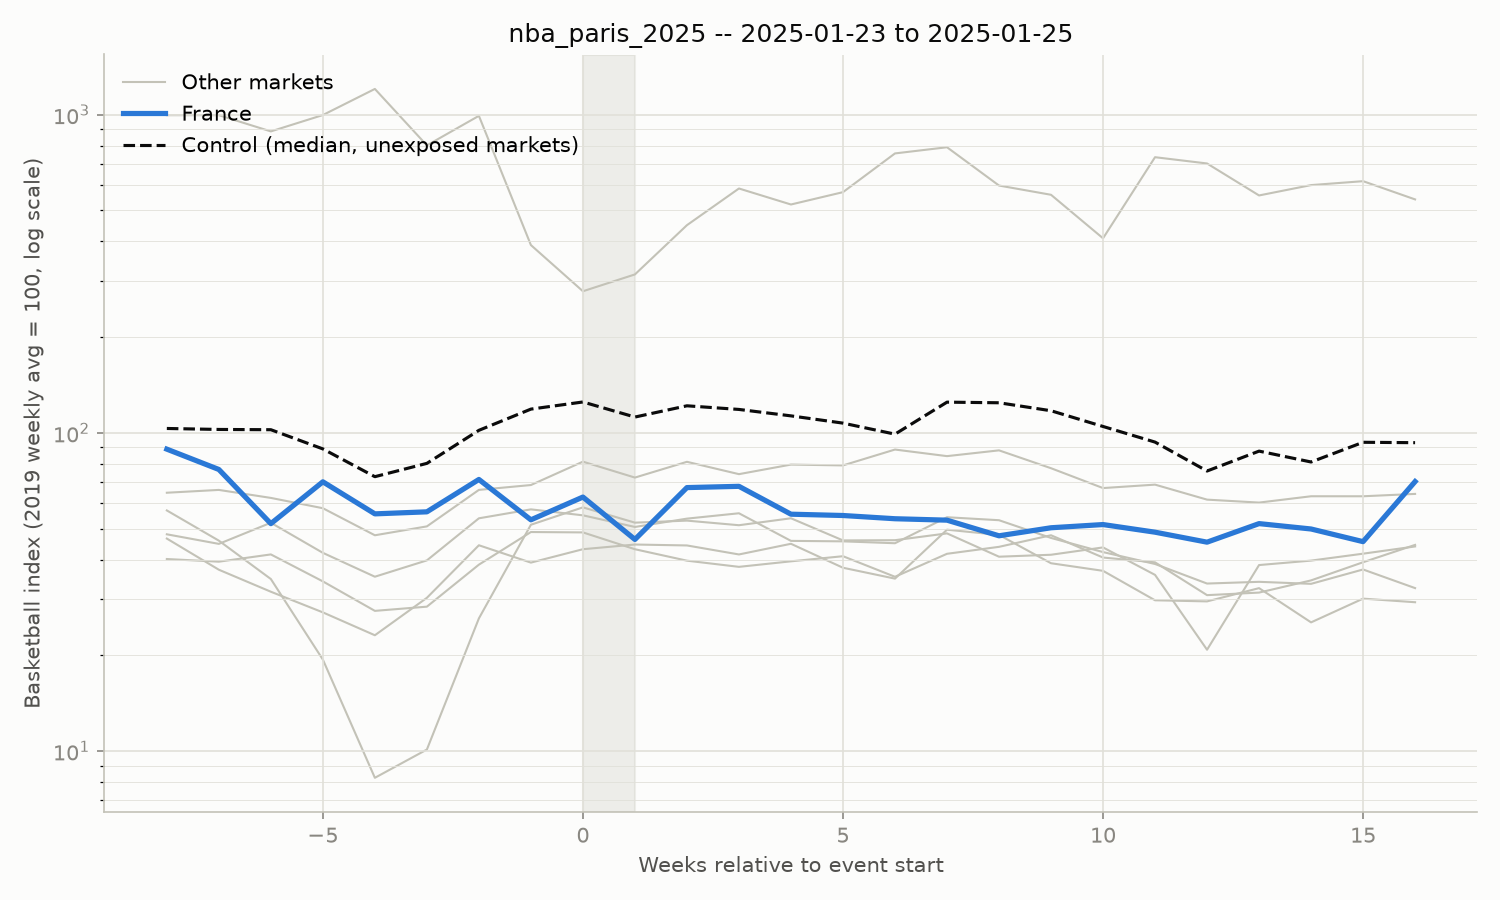
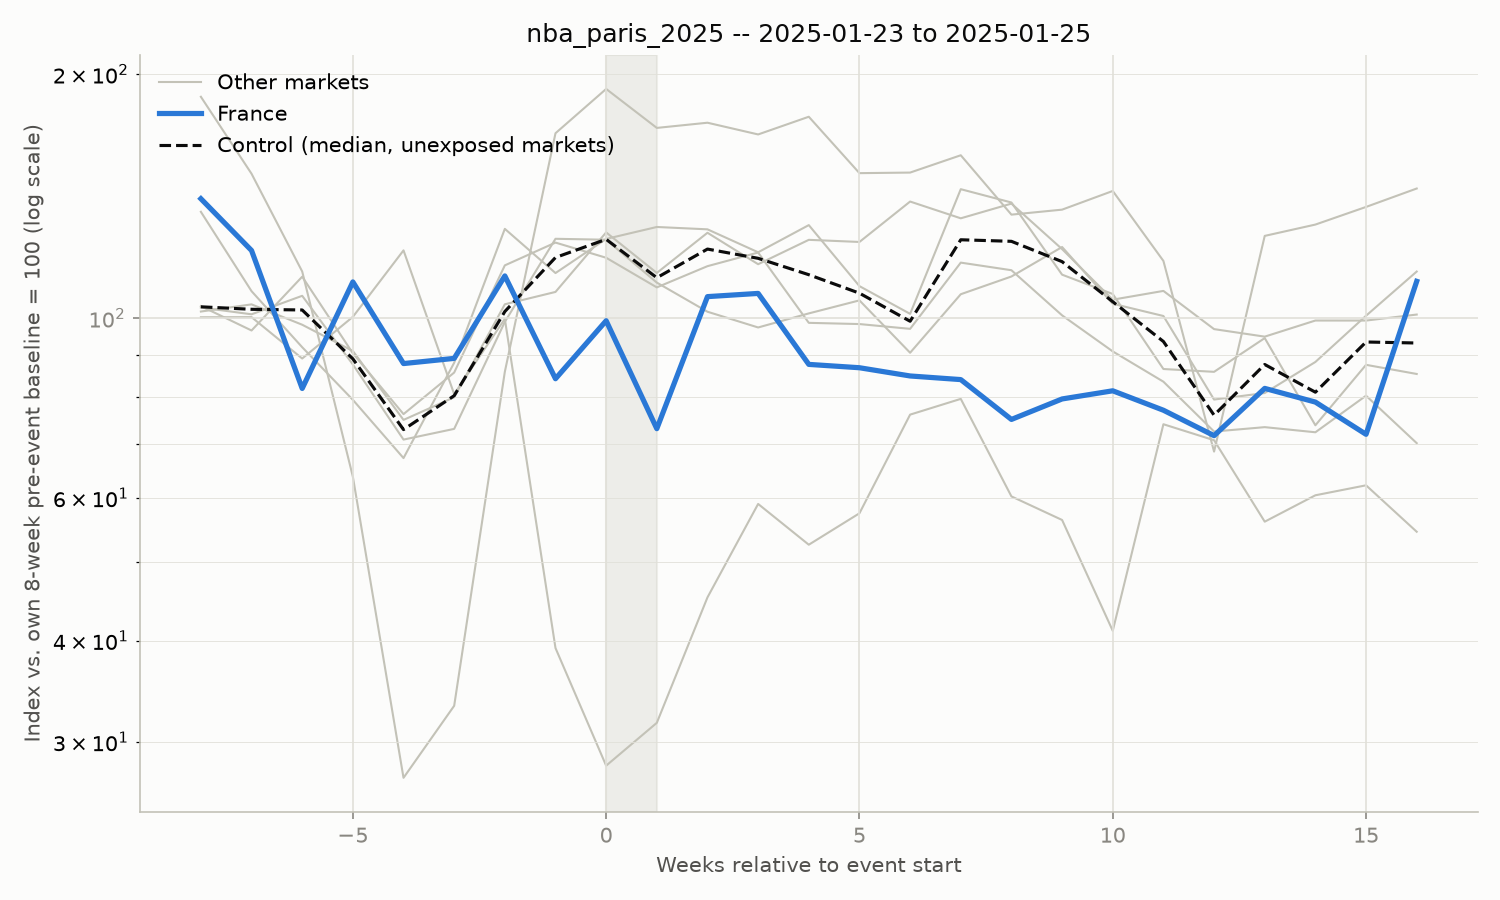
Rebase event-chart lines to each market's own pre-event baseline
Country lines were plotted on the 2019 full-year anchor while the
control line was built from uplift against the 8-week pre-event
baseline -- two different reference points on one axis, so a line
sitting above or below the dashed control told you about each
market's long-run growth since 2019, not about the event. Both
London and Paris 2025 showed the exposed country below control for
the whole window (including before the event), which was this
mismatch, not a real finding.

Now every line -- exposed, other markets, and control -- is plotted
as 100 x (1 + uplift vs. that market's own 8-week pre-event
baseline), so "above the control" on the chart means the same thing
as a positive net_peak_uplift in the table. Confirmed visually:
London's UK line now clearly crosses above control at the event and
stays there (matching its +30.6% net peak); Paris 2025's France line
stays close to or below control (matching its -11.2% net peak).

No change to outputs/analogs_table.csv or the memo -- those metrics
were already computed against each country's own baseline; only the
chart's display scale was wrong.

diff --git a/src/analogs.py b/src/analogs.py
@@ -244,10 +244,17 @@ def plot_event_chart(weekly: pd.DataFrame, event: Event, out_path: Path) -> None
     end_offset = (end_week - event_week).days / 7
     ax.axvspan(0, end_offset + 1, color="#c3c2b7", alpha=0.25, zorder=0)
 
+    # Every line (exposed, other, control) is rebased to that country's own
+    # 8-week pre-event baseline = 100, so vertical position is directly
+    # comparable across lines -- "above the control" means "beating the
+    # control's uplift that week," matching net_peak_uplift in the table.
     other_line = None
     color_i = 0
     for country in COUNTRIES:
-        values = [series_map[country]["index"].get(wk) for wk in weeks]
+        values = [
+            100 * (1 + safe_uplift(series_map[country]["index"].get(wk), baselines[country]))
+            for wk in weeks
+        ]
         if country in event.exposed_countries:
             color = EXPOSED_COLORS[color_i % len(EXPOSED_COLORS)]
             color_i += 1
@@ -259,9 +266,8 @@ def plot_event_chart(weekly: pd.DataFrame, event: Event, out_path: Path) -> None
     if other_line is not None:
         other_line.set_label("Other markets")
 
-    # Control: median uplift across unexposed markets, displayed as a synthetic
-    # index (100 x (1 + uplift)) so it sits on the same baseline=100 scale as
-    # every country's own index line.
+    # Control: median uplift across unexposed markets, displayed the same way
+    # (100 x (1 + uplift)) as every country line above.
     control_display = [
         100 * (1 + control_uplift_at(wk, event, "basketball", series_map, baselines))
         for wk in weeks
@@ -278,7 +284,7 @@ def plot_event_chart(weekly: pd.DataFrame, event: Event, out_path: Path) -> None
     ax.set_yscale("log")
     ax.set_title(f"{event.event_name} -- {date_label}", color="#0b0b0b")
     ax.set_xlabel("Weeks relative to event start", color="#52514e")
-    ax.set_ylabel("Basketball index (2019 weekly avg = 100, log scale)", color="#52514e")
+    ax.set_ylabel("Index vs. own 8-week pre-event baseline = 100 (log scale)", color="#52514e")
     ax.grid(True, which="major", color="#e1e0d9", linewidth=0.8)
     ax.grid(True, which="minor", color="#e1e0d9", linewidth=0.4)
     ax.spines[["top", "right"]].set_visible(False)

diff --git a/docs/decision_log.md b/docs/decision_log.md
@@ -22,3 +22,4 @@ Chronological record of key decisions made during this project, with rationale.
 | 2026-09-28 | Control = median of unexposed markets, net computed week by week | A single control market (NL) had its own shocks |
 | 2026-09-28 | NL treated as exposed for Paris 2024 (decided after seeing the data) | NL won men's 3x3 Olympic gold on 5 Aug 2024; should have been caught upfront |
 | 2026-09-28 | Wembanyama draft excluded from scenario inputs | Falls at seasonal low; no measurable short-term effect |
+| 2026-10-12 | Event charts: every line rebased to its own 8-week pre-event baseline = 100 | Previously country lines used the 2019 anchor while the control line used the event baseline, so "above/below control" on the chart didn't match net_peak_uplift in the table |
